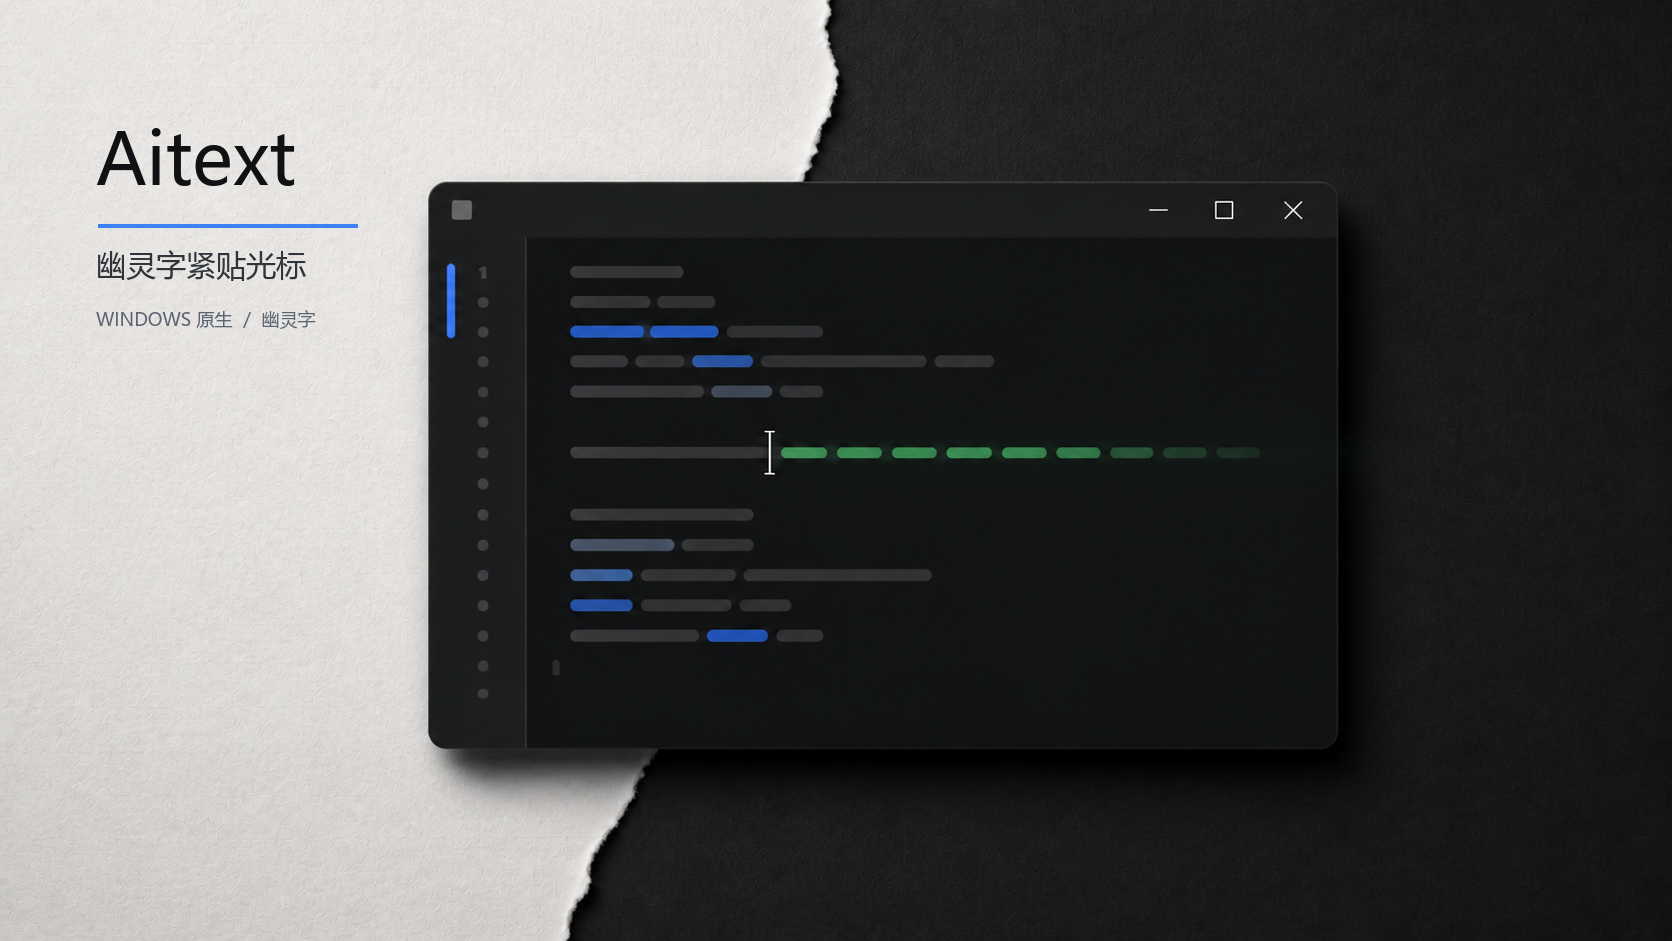
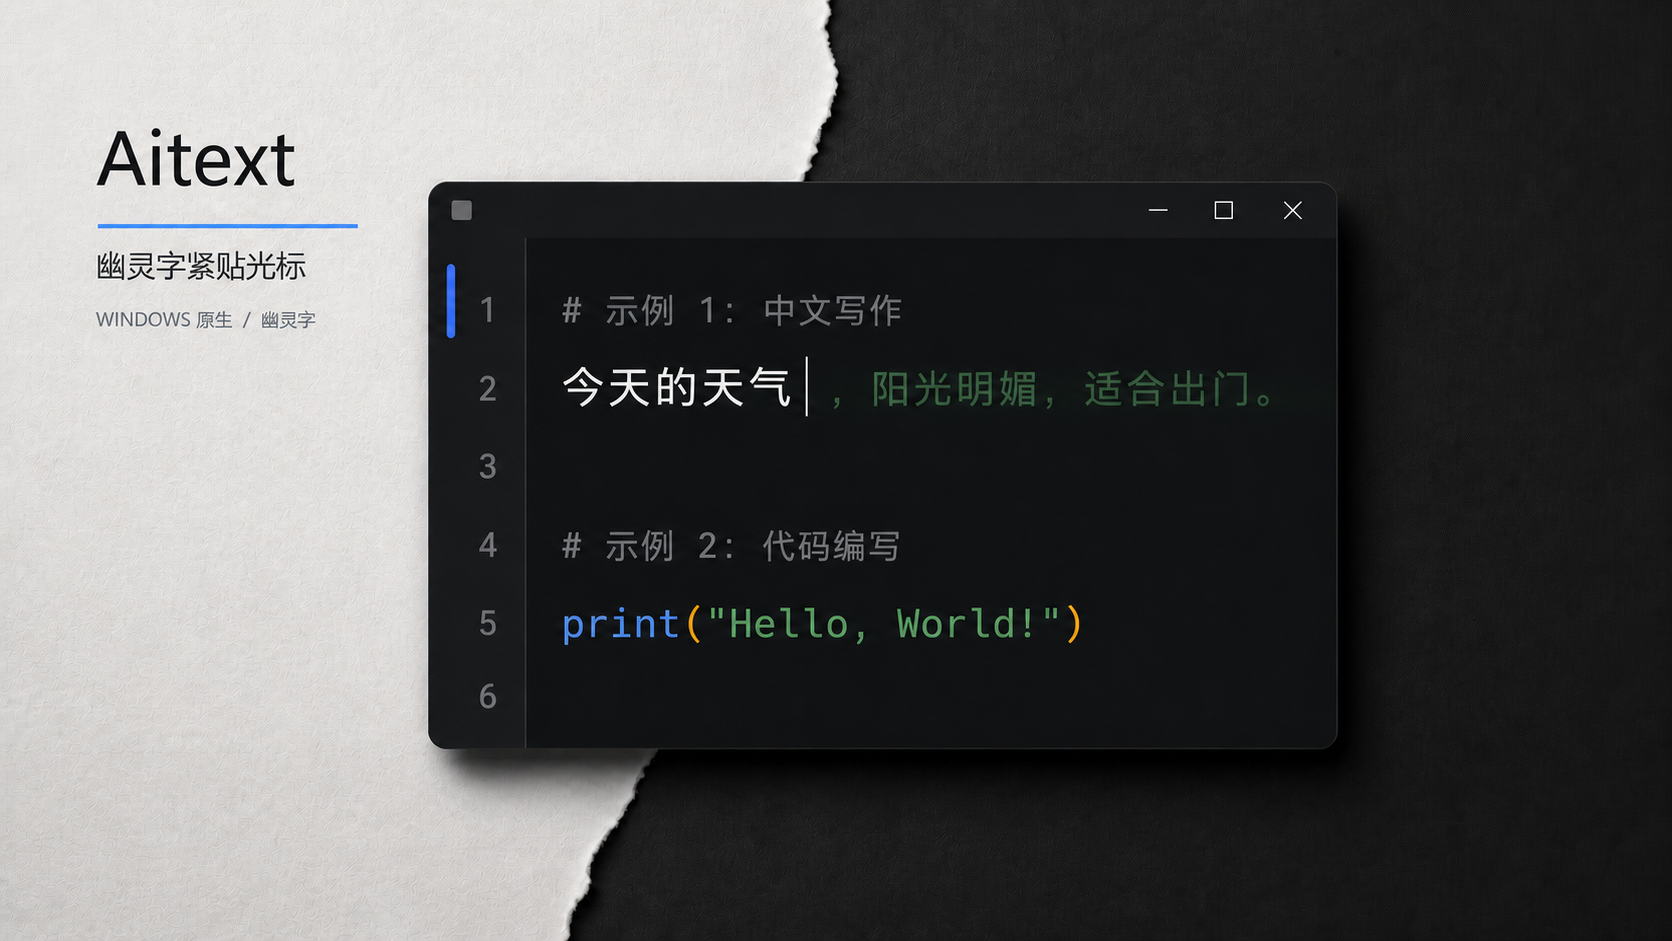
docs: clarify showcase completion examples

diff --git a/docs/media/README.md b/docs/media/README.md
@@ -1,11 +1,11 @@
 # Aitext showcase media
 
-The Paper Cut base scene was generated with the built-in image generation tool and refined from the approved `aitext-hero.png` reference. The prompt required a matte black/white paper split, a compact editor instrument, blue focus, green ghost text, a neutral gray divider, no orange line, no watermark, and no invented readable UI copy.
+The Paper Cut base scene was generated with the built-in image generation tool and refined from the approved `aitext-hero.png` reference. The prompt required a matte black/white paper split, a compact editor instrument, blue focus, green ghost text, a neutral gray divider, no orange line, and no watermark. The final editor text is intentionally explicit rather than abstract: each language variant shows a natural-language ghost continuation and a Python `print("Hello, World!")` completion.
 
 - `aitext-paper-cut-base.png`: generated base scene kept for provenance.
-- `hero-en.png`: exact English overlay composed with Segoe UI through ffmpeg.
-- `hero-zh-CN.png`: exact Simplified Chinese overlay composed with Microsoft YaHei through ffmpeg.
-- `demo-en.gif`: six-frame, 5 fps English ghost-text reveal, 1200×675.
-- `demo-zh-CN.gif`: six-frame, 5 fps Simplified Chinese ghost-text reveal, 1200×675.
+- `hero-en.png`: English Paper Cut hero with a readable sentence suggestion and `print("Hello, World!")` inside the editor.
+- `hero-zh-CN.png`: Simplified Chinese Paper Cut hero with `今天的天气` plus a green continuation and the same Python completion.
+- `demo-en.gif`: six-frame, 5 fps English editor showcase with the caret blinking beside the ghost suggestion, 1200×675.
+- `demo-zh-CN.gif`: six-frame, 5 fps Simplified Chinese editor showcase with the caret blinking beside the ghost suggestion, 1200×675.
 
-The animated frames are illustrative showcase material, not a live API capture. The green continuation communicates the product interaction while avoiding a claim about a specific model response.
+The animated frames are illustrative showcase material, not a live API capture. The green continuation communicates the product interaction while avoiding a claim about a specific model response. Bitmap backgrounds were generated with the built-in imagegen tool; exact language examples and the caret animation were assembled locally with ffmpeg so README text stays legible and deterministic.

diff --git a/progress.md b/progress.md
@@ -64,6 +64,12 @@
 - Final release assets were downloaded and verified against `SHA256SUMS.txt`; ZIP contents were inspected; `Get-AuthenticodeSignature` reported `NotSigned`; the installer was not run.
 - Temporary RC branch `codex/aitext-v0.1.0-rc` was deleted after final Release verification. No desktop automation was used.
 
+## 2026-08-20 — README showcase readability revision
+
+- Replaced both Paper Cut hero images with readable editor examples: a natural-language ghost continuation plus a Python `print("Hello, World!")` completion.
+- Updated both English and Simplified Chinese GIFs to use the same visible examples with a blinking caret, rather than abstract placeholder bars.
+- Verified PNG dimensions (1672×941), GIF dimensions (1200×675), six GIF frames at 5 fps, and clean `git diff --check`. No application or desktop automation was used.
+
 ## 2026-08-20 — Aitext v0.1.0 formal release planning
 
 - User requested Windows installer, repository rename to Aitext, formal GitHub Release, bilingual Quick Start README, and English/Chinese showcase PNG/GIF assets.
